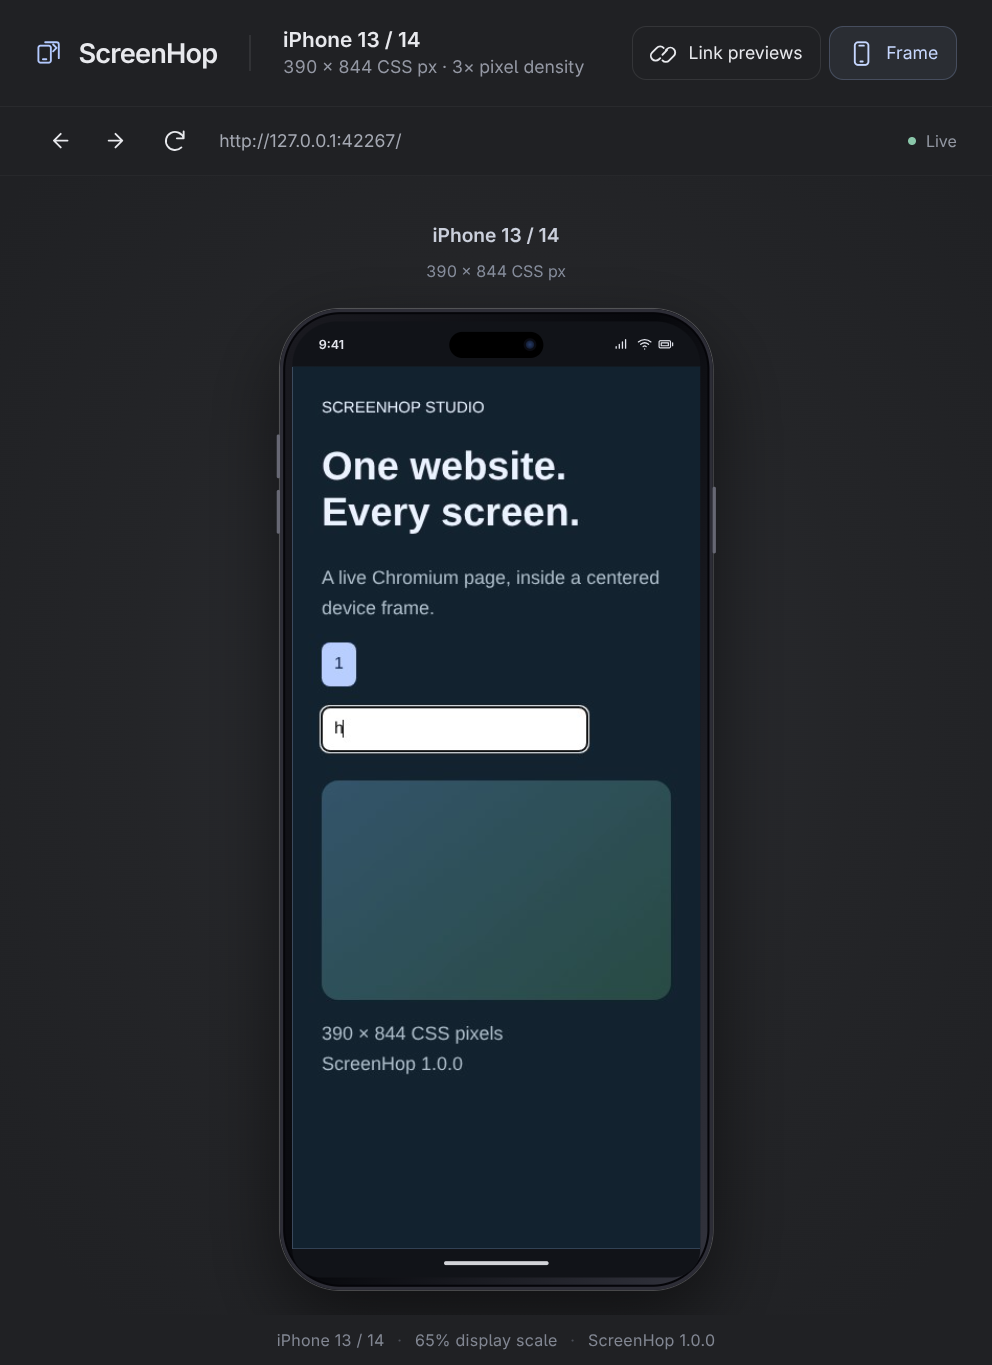
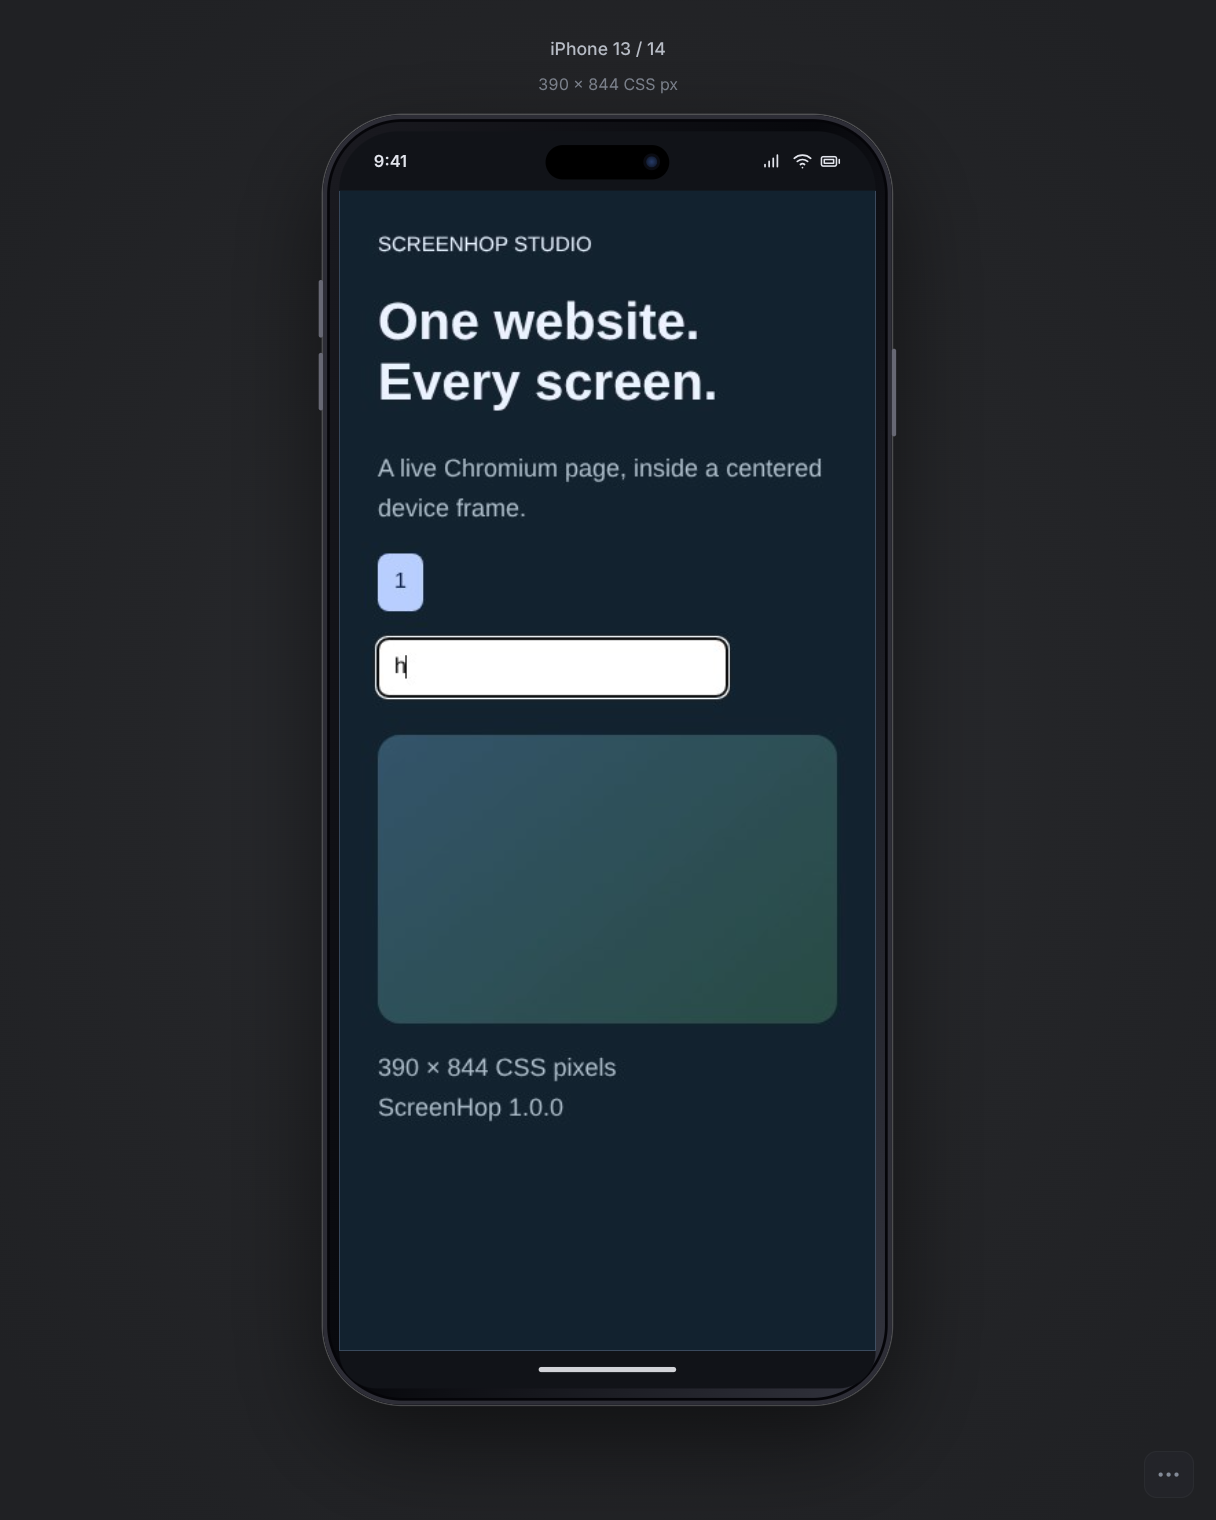
Fix stale plugin loading and center borderless device windows

diff --git a/viewer.html b/viewer.html
@@ -8,15 +8,21 @@
 <style>
 :root{font-family:Inter,ui-sans-serif,system-ui,-apple-system,sans-serif;color:#e8e9ed;background:#202124;font-synthesis:none}*{box-sizing:border-box}body{margin:0;height:100dvh;overflow:hidden;display:flex;flex-direction:column}button{font:inherit;color:inherit;background:transparent;border:1px solid transparent;cursor:pointer}button:focus-visible,a:focus-visible{outline:2px solid #9dbeff;outline-offset:3px}button:hover{background:#ffffff0d}button:disabled{opacity:.35;cursor:default}.topbar{flex:none;min-height:67px;border-bottom:1px solid #ffffff0a;background:#202124;display:flex;align-items:center;gap:20px;padding:12px 22px}.brand{display:flex;align-items:center;gap:10px;font-weight:650;letter-spacing:-.5px;font-size:17px;white-space:nowrap}.brand svg{color:#b4caff}.divider{height:23px;width:1px;background:#ffffff14}.device-heading{min-width:0;flex:1}.device-heading strong{display:block;font-size:13px;font-weight:600;text-overflow:ellipsis;overflow:hidden;white-space:nowrap}.device-heading span{display:block;font-size:11px;color:#9498a4;margin-top:3px;font-variant-numeric:tabular-nums}.controls{display:flex;gap:5px;align-items:center}.pill{display:flex;align-items:center;gap:7px;border:1px solid #ffffff17;border-radius:9px;padding:8px 11px;font-size:11px;white-space:nowrap}.pill[aria-pressed=true]{background:#adc5ff12;color:#c6d7ff;border-color:#abc8ff35}svg{width:17px;height:17px;fill:none;stroke:currentColor;stroke-width:1.65;stroke-linecap:round;stroke-linejoin:round;flex:none}.navigation{height:43px;display:flex;align-items:center;gap:6px;padding:5px 22px;flex:none;border-bottom:1px solid #ffffff08}.icon-button{width:30px;height:30px;border-radius:7px;display:grid;place-items:center}.url{font-size:11px;white-space:nowrap;overflow:hidden;text-overflow:ellipsis;color:#a4a8b2;margin-left:7px;flex:1;user-select:all}.status{display:flex;gap:6px;align-items:center;font-size:10px;color:#9297a2;white-space:nowrap;margin-left:10px}.dot{width:5px;height:5px;border-radius:50%;background:#dbb26a}.status[data-state=live] .dot{background:#8ac7aa}.status[data-state=error] .dot{background:#e39090}.stage{position:relative;flex:1;min-height:0;overflow:hidden;display:flex;align-items:center;justify-content:center;padding:24px 24px 12px;background:radial-gradient(ellipse at 50% 46%,#2d2f34 0%,#242528 51%,#202124 90%)}.fit-box{position:relative;flex:none}.device{position:absolute;left:0;top:0;transform-origin:top left;--bezel:12px;width:calc(var(--w)*1px + var(--bezel)*2);padding:var(--bezel);border-radius:58px;background:linear-gradient(110deg,#686978 0%,#1a1a20 2%,#07080c 48%,#33343e 99%);box-shadow:0 0 0 1px #ffffff39,inset 0 0 0 3px #9999ac45,inset 0 0 0 5px #050509,0 28px 70px #0008}.device::before,.device::after{content:"";position:absolute;background:#676874;width:3px;border-radius:2px;left:-3px;top:120px;height:42px;box-shadow:0 53px #676874}.device::after{left:auto;right:-3px;top:170px;height:64px;box-shadow:none}.hardware-top{height:43px;background:#111318;border-radius:43px 43px 0 0;display:flex;align-items:center;justify-content:space-between;padding:0 25px;color:#e2e4ec;font-size:12px;font-weight:650;position:relative}.hardware-top .camera{position:absolute;left:50%;top:10px;transform:translateX(-50%);width:90px;height:25px;background:#000;border-radius:20px}.camera::after{content:"";position:absolute;right:9px;top:8px;width:8px;height:8px;border-radius:50%;background:radial-gradient(circle,#263b69,#0b101b);box-shadow:0 0 0 2px #0a0b12}.system-icons{display:flex;gap:6px;align-items:center}.system-icons svg{width:15px;height:15px}.hardware-bottom{height:27px;background:#111318;border-radius:0 0 43px 43px;display:flex;justify-content:center;align-items:center}.hardware-bottom::before{content:"";height:4px;width:100px;border-radius:5px;background:#d2d3d8}.screen{width:calc(var(--w)*1px);height:calc(var(--h)*1px);background:#15171b;position:relative;outline:none;overflow:hidden;touch-action:none}.screen:focus-visible{box-shadow:inset 0 0 0 2px #b9cfff}.screen img{display:block;width:100%;height:100%;object-fit:fill;user-select:none;-webkit-user-drag:none;pointer-events:none}.screen img:not([src]){visibility:hidden}.loading{position:absolute;inset:0;display:grid;place-items:center;color:#8e95a4;font-size:14px;pointer-events:none}.screen.has-frame .loading{display:none}.device.android{border-radius:37px;--bezel:9px;background:linear-gradient(100deg,#6f7279,#090a0d 3%,#14151b 96%,#81858e);box-shadow:0 0 0 1px #ffffff40,inset 0 0 0 3px #2f323a,0 28px 70px #0008}.android .hardware-top{height:34px;border-radius:28px 28px 0 0;padding:0 18px;font-size:11px}.android .camera{width:13px;height:13px;top:10px}.android .camera::after{width:5px;height:5px;top:4px;right:4px}.android .hardware-bottom{height:20px;border-radius:0 0 28px 28px}.android .hardware-bottom::before{width:85px;height:3px}.device.tablet{--bezel:19px;border-radius:35px}.tablet .hardware-top{height:15px;border-radius:15px 15px 0 0}.tablet .clock,.tablet .system-icons{display:none}.tablet .camera{width:7px;height:7px;top:1px}.tablet .camera::after{width:3px;height:3px;top:2px;right:2px}.tablet .hardware-bottom{height:15px;border-radius:0 0 15px 15px}.tablet .hardware-bottom::before{height:3px}.device.desktop{--bezel:11px;border-radius:15px;background:#111318;box-shadow:0 0 0 1px #ffffff30,0 25px 60px #0006}.desktop .hardware-top{height:8px;border-radius:5px 5px 0 0}.desktop .clock,.desktop .system-icons{display:none}.desktop .camera{width:4px;height:4px;top:0}.desktop .camera::after{display:none}.desktop .hardware-bottom{height:23px;border-radius:0 0 5px 5px}.desktop .hardware-bottom::before{width:6px;height:6px;background:#666c78}.desktop::before{left:calc(50% - 40px);top:100%;width:80px;height:24px;background:linear-gradient(#363942,#24262c);box-shadow:none;border-radius:0}.desktop::after{left:calc(50% - 94px);right:auto;top:calc(100% + 23px);width:188px;height:7px;background:#434751;box-shadow:0 5px 10px #0004;border-radius:10px 10px 3px 3px}.device.bare{--bezel:0px;border-radius:2px;padding:0;box-shadow:0 0 0 1px #ffffff20,0 15px 45px #0004;background:none}.bare .hardware-top,.bare .hardware-bottom,.bare::before,.bare::after{display:none}.footer{height:31px;flex:none;text-align:center;font-size:10px;letter-spacing:.15px;color:#818692;display:flex;align-items:center;justify-content:center;gap:8px}.footer .separator{color:#4a4e57}.toast{position:absolute;bottom:18px;left:50%;transform:translateX(-50%);max-width:90%;padding:10px 15px;background:#383b43;border:1px solid #ffffff1a;color:#e6e8ef;border-radius:10px;font-size:12px;box-shadow:0 6px 25px #0005}.toast[hidden]{display:none}@media(max-width:540px){.topbar{padding:10px 12px;gap:10px}.brand .wordmark,.divider,.pill .button-label{display:none}.pill{padding:8px}.navigation{padding:5px 10px}.stage{padding:17px 12px 8px}.status{font-size:9px}}@media(prefers-reduced-motion:no-preference){button{transition:background .15s,border-color .15s}}
 .preview-group{display:flex;flex-direction:column;align-items:center;gap:16px;flex:none}.preview-label{text-align:center;line-height:1.5;height:39px;flex:none}.preview-label strong{font-size:12px;font-weight:600;display:block;color:#cbd0dc}.preview-label span{font-size:10px;color:#888f9e;font-variant-numeric:tabular-nums}
+
+/* The device alone occupies the window. Tools float above the canvas when requested. */
+body{display:block}.stage{width:100%;height:100%;padding:68px 24px;background:radial-gradient(ellipse at center,#2d2f34 0%,#242528 51%,#202124 90%)}
+.preview-group{position:relative;display:block}.preview-label{position:absolute;bottom:calc(100% + 13px);left:50%;transform:translateX(-50%);width:max-content;max-width:calc(100vw - 32px);height:36px;pointer-events:none}.preview-label strong{font-size:11px;font-weight:500;color:#b8bdc7}.preview-label span{font-size:10px;color:#7f8590}.footer{display:none}
+.tool-dock{position:fixed;bottom:14px;right:14px;z-index:10;display:flex;flex-direction:column;align-items:flex-end;gap:8px}.tools-toggle{order:2;display:grid;place-items:center;width:31px;height:29px;border-radius:8px;background:#26282d80;color:#838a97;border-color:#ffffff09}.tools-toggle:hover,.tools-toggle:focus-visible{background:#343740;color:#e1e7f2}.floating-tools{visibility:hidden;opacity:0;pointer-events:none;display:flex;flex-direction:column;gap:7px;width:min(300px,calc(100vw - 28px));padding:10px;background:#25272df2;border:1px solid #ffffff13;border-radius:12px;box-shadow:0 10px 32px #0005}.tool-dock:hover .floating-tools,.tool-dock:focus-within .floating-tools,.tool-dock.open .floating-tools{visibility:visible;opacity:1;pointer-events:auto}.navigation{height:auto;min-height:30px;flex-wrap:wrap;gap:3px;padding:0;border:0}.navigation .url{order:3;flex-basis:100%;margin:4px 3px 2px;font-size:10px}.status{margin-left:auto;font-size:10px}.controls{gap:7px}.controls .pill{flex:1;justify-content:center;padding:7px;font-size:10px}.pill .button-label{display:inline}.toast{z-index:11}
+@media(max-width:540px){.stage{padding:64px 14px}.controls .pill{padding:7px}.navigation{padding:0}}
+@media(prefers-reduced-motion:no-preference){.floating-tools{transition:opacity .15s,visibility .15s}}
 </style>
 </head>
 <body>
-<header class="topbar">
- <div class="brand"><svg viewBox="0 0 24 24" aria-hidden="true"><rect x="3" y="5" width="11" height="15" rx="2"/><path d="M9 2h10a2 2 0 0 1 2 2v12M7 17h3m6-7 3-3-3-3"/></svg><span class="wordmark">ScreenHop</span></div>
- <span class="divider" aria-hidden="true"></span><div class="device-heading"><strong id="device-name"></strong><span id="dimensions"></span></div>
- <div class="controls"><button id="link" class="pill" aria-pressed="false" title="Synchronize clicks, typing, navigation, and scrolling between previews" aria-label="Link previews"><svg viewBox="0 0 24 24" aria-hidden="true"><path d="m10 13 4-4m-6 7-1 1a4 4 0 0 1-6-6l4-4a4 4 0 0 1 6 0m2 2 1-1a4 4 0 0 1 6 6l-4 4a4 4 0 0 1-6 0" transform="translate(1 0)"/></svg><span class="button-label">Link previews</span></button><button id="frame" class="pill" aria-pressed="true" title="Show device frame" aria-label="Show device frame"><svg viewBox="0 0 24 24" aria-hidden="true"><rect x="6" y="2" width="12" height="20" rx="3"/><path d="M10 5h4m-3 14h2"/></svg><span class="button-label">Frame</span></button></div>
-</header>
-<nav class="navigation" aria-label="Preview navigation"><button class="icon-button" data-action="back" aria-label="Back" title="Back"><svg viewBox="0 0 24 24"><path d="m13 6-6 6 6 6M7 12h12"/></svg></button><button class="icon-button" data-action="forward" aria-label="Forward" title="Forward"><svg viewBox="0 0 24 24"><path d="m11 6 6 6-6 6M5 12h12"/></svg></button><button class="icon-button" data-action="reload" aria-label="Reload preview" title="Reload preview"><svg viewBox="0 0 24 24"><path d="M20 10a8 8 0 1 0-2 8M20 4v6h-6"/></svg></button><div class="url" id="url"></div><div id="status" class="status" role="status" data-state="connecting"><span class="dot"></span><span id="status-text">Connecting</span></div></nav>
+<div hidden><strong id="device-name"></strong><span id="dimensions"></span></div>
+<aside class="tool-dock" aria-label="Preview tools">
+ <button id="tools-toggle" class="tools-toggle" aria-expanded="false" aria-controls="floating-tools" aria-label="Show preview controls" title="Preview controls"><svg viewBox="0 0 24 24" aria-hidden="true"><circle cx="5" cy="12" r="1"/><circle cx="12" cy="12" r="1"/><circle cx="19" cy="12" r="1"/></svg></button>
+ <div id="floating-tools" class="floating-tools"><nav class="navigation" aria-label="Preview navigation"><button class="icon-button" data-action="back" aria-label="Back" title="Back"><svg viewBox="0 0 24 24"><path d="m13 6-6 6 6 6M7 12h12"/></svg></button><button class="icon-button" data-action="forward" aria-label="Forward" title="Forward"><svg viewBox="0 0 24 24"><path d="m11 6 6 6-6 6M5 12h12"/></svg></button><button class="icon-button" data-action="reload" aria-label="Reload preview" title="Reload preview"><svg viewBox="0 0 24 24"><path d="M20 10a8 8 0 1 0-2 8M20 4v6h-6"/></svg></button><div class="url" id="url"></div><div id="status" class="status" role="status" data-state="connecting"><span class="dot"></span><span id="status-text">Connecting</span></div></nav><div class="controls"><button id="link" class="pill" aria-pressed="false" title="Synchronize clicks, typing, navigation, and scrolling between previews" aria-label="Link previews"><svg viewBox="0 0 24 24" aria-hidden="true"><path d="m10 13 4-4m-6 7-1 1a4 4 0 0 1-6-6l4-4a4 4 0 0 1 6 0m2 2 1-1a4 4 0 0 1 6 6l-4 4a4 4 0 0 1-6 0" transform="translate(1 0)"/></svg><span class="button-label">Link previews</span></button><button id="frame" class="pill" aria-pressed="true" title="Show device frame" aria-label="Show device frame"><svg viewBox="0 0 24 24" aria-hidden="true"><rect x="6" y="2" width="12" height="20" rx="3"/><path d="M10 5h4m-3 14h2"/></svg><span class="button-label">Frame</span></button></div></div>
+</aside>
 <main class="stage" id="stage"><div class="preview-group"><div class="preview-label"><strong id="preview-name"></strong><span id="preview-size"></span></div><div class="fit-box" id="fit-box"><div class="device" id="device"><div class="hardware-top" aria-hidden="true"><span class="clock">9:41</span><span class="camera"></span><span class="system-icons"><svg viewBox="0 0 20 20"><path d="M2 15v-2m4 2v-5m4 5V7m4 8V4"/></svg><svg viewBox="0 0 20 20"><path d="M2 7a12 12 0 0 1 16 0M5 10a8 8 0 0 1 10 0m-7 3a3 3 0 0 1 4 0m-2 3h.01"/></svg><svg viewBox="0 0 22 20"><rect x="1" y="5" width="16" height="10" rx="2"/><path d="M20 8v4M4 8h10v4H4z"/></svg></span></div><div class="screen" id="screen" tabindex="0" role="application" aria-label="Interactive device preview. Click to focus; keyboard and pointer input control the website."><img id="display" alt="Live website preview" draggable="false"><div class="loading" id="loading">Connecting to your preview…</div></div><div class="hardware-bottom" aria-hidden="true"></div></div></div></div><div class="toast" id="toast" role="alert" hidden></div></main>
 <footer class="footer"><span id="footer-device"></span><span class="separator">·</span><span id="scale"></span><span class="separator">·</span><span>ScreenHop 1.0.0</span></footer>
 <script>
@@ -41,7 +47,7 @@ try { showFrame = localStorage.getItem('screenhop.frame') !== 'off'; } catch {}
 function fit() {
  const stage = $('stage'), styles = getComputedStyle(stage);
  const availableWidth = stage.clientWidth - parseFloat(styles.paddingLeft) - parseFloat(styles.paddingRight) - 8;
- const availableHeight = stage.clientHeight - parseFloat(styles.paddingTop) - parseFloat(styles.paddingBottom) - 63;
+ const availableHeight = stage.clientHeight - parseFloat(styles.paddingTop) - parseFloat(styles.paddingBottom) - 8;
  const extra = showFrame && style === 'desktop' ? 32 : 0;
  const scale = Math.max(.01, Math.min(1, availableWidth / device.offsetWidth, availableHeight / (device.offsetHeight + extra)));
  device.style.transform = `scale(${scale})`;
@@ -67,6 +73,8 @@ let inputQueue = Promise.resolve();
 function input(data) { if (!connected) return; inputQueue = inputQueue.then(() => post('/input', data)).catch(error => toast(error.message)); }
 async function action(data) { try { await post('/action', data); } catch(error) { toast(error.message); } }
 document.querySelectorAll('[data-action]').forEach(button => button.addEventListener('click', () => action({action:button.dataset.action})));
+$('tools-toggle').addEventListener('click', () => { const opened = document.querySelector('.tool-dock').classList.toggle('open'); $('tools-toggle').setAttribute('aria-expanded',String(opened)); });
+document.querySelector('.tool-dock').addEventListener('keydown', event => { if (event.key === 'Escape') { document.querySelector('.tool-dock').classList.remove('open'); $('tools-toggle').setAttribute('aria-expanded','false'); screen.focus({preventScroll:true}); } });
 $('link').addEventListener('click', () => action({action:'link',enabled:!linked}));
 $('frame').addEventListener('click', () => { showFrame = !showFrame; try { localStorage.setItem('screenhop.frame',showFrame ? 'on':'off'); } catch {} updateFrame(); });
 function point(event) { const rect = screen.getBoundingClientRect(); return {x:Math.max(0,Math.min(width - .01,(event.clientX - rect.left) * width / rect.width)),y:Math.max(0,Math.min(height - .01,(event.clientY - rect.top) * height / rect.height))}; }

diff --git a/Widget.qml b/Widget.qml
@@ -8,6 +8,7 @@ import qs.Ui
 BarWidget {
     id: root
     moduleName: "arkane.screenhop"
+    Component.onCompleted: console.info("ScreenHop 1.0.0 widget loaded:", pluginDirectory)
     property bool opened: false
     property bool popoutSwitchClosing: false
     property var devices: []

diff --git a/README.md b/README.md
@@ -10,7 +10,7 @@ ScreenHop is an Omarchy shell plugin with 16 searchable phone, tablet, and compu
 
 ## Device previews
 
-Click **ScreenHop** in the bar, enter your website URL (including localhost), and choose a device. The selected device's name and resolution appear above a centered outline. Phone, tablet and desktop frames surround the live webpage without covering it or changing its viewport. Large devices scale visually to fit.
+Click **ScreenHop** in the bar, enter your website URL (including localhost), and choose a device. The selected device's name and resolution appear above a centered outline. Framed previews use borderless app windows with no browser tabs, address bar, or persistent toolbar; controls appear from the small menu button on hover or keyboard focus. Phone, tablet and desktop frames surround the live webpage without covering it or changing its viewport. Large devices scale visually to fit.
 
 - **Device frame on:** a live offscreen Chromium renderer appears inside a centered device frame. Mouse, keyboard, paste and scrolling are forwarded to the actual page. Use the viewer's Frame toggle to hide the decorative outline without changing viewport dimensions.
 - **Device frame off in the picker:** opens a direct Chromium window with the device and resolution in its title. This retains native browser controls and is preferable for sign-in troubleshooting or features the streamed viewer does not support.
@@ -44,7 +44,7 @@ No npm dependencies or browser extension are needed.
 bash scripts/install.sh
 ```
 
-The widget appears at the right of the bar. After updating, open new previews to use the new controller. Previously opened previews remain in their existing session; the older linked session was disabled during the OAuth fix.
+The widget appears at the right of the bar. The installer keeps backups outside Omarchy’s plugin discovery directory and migrates older timestamped backup folders so they cannot override the current plugin. After updating, open new previews to use the new controller. Previously opened previews remain in their existing session; the older linked session was disabled during the OAuth fix.
 
 To remove the widget from the bar: `omarchy plugin disable arkane.screenhop`.
 
@@ -69,6 +69,7 @@ node viewport.mjs --list
 node --test tests/auth-policy.test.mjs tests/browser.test.mjs tests/viewer.test.mjs
 SCREENHOP_TEST_NATIVE=1 node --test tests/browser.test.mjs
 bash tests/ui-smoke.sh
+bash tests/install-smoke.sh
 ```
 
 Browser tests require local browser/socket access. The QML test requires a Wayland session. See [VALIDATION.md](VALIDATION.md) for results.

diff --git a/VALIDATION.md b/VALIDATION.md
@@ -13,3 +13,6 @@ Validated locally on Omarchy / Hyprland, 2026-09-08. Not published.
 The provider tests use local fixtures and synthetic callback values. No live tenant sign-in, production Cloudflare challenge solve, or universal provider compatibility is claimed. Keep linking off during authentication; Cloudflare can still reject automated/emulated browsers.
 
 Screenshot `preview.png` was captured from the actual framed viewer displaying a local test page. Named login profiles/session import remain planned in PLAN.md.
+
+- Borderless desktop regression passed: application viewport height equals outer window height (no browser titlebar/tabs/address bar), and the device outline is centered on both axes.
+- Installer regression passed: legacy backup migration and repeat installs preserve all backups outside discovery and leave exactly one discoverable ScreenHop 1.0.0.

diff --git a/CHANGELOG.md b/CHANGELOG.md
@@ -8,3 +8,6 @@ Local development version; not published.
 - Optional linked clicks, ordinary input, scrolling and same-origin link navigation.
 - Linking defaults off. OAuth/OIDC, provider login, credential/MFA forms and security challenges pause synchronization. Redirect chains and authentication callbacks are never replayed as navigation commands.
 - Local browser/Omarchy tests and saved-login-profile plan.
+
+- Fixed installer backups shadowing the live plugin with version 0.1.0. Backups now live outside plugin discovery.
+- Framed previews are borderless app windows, centered horizontally and vertically, with hover/focus tools.
